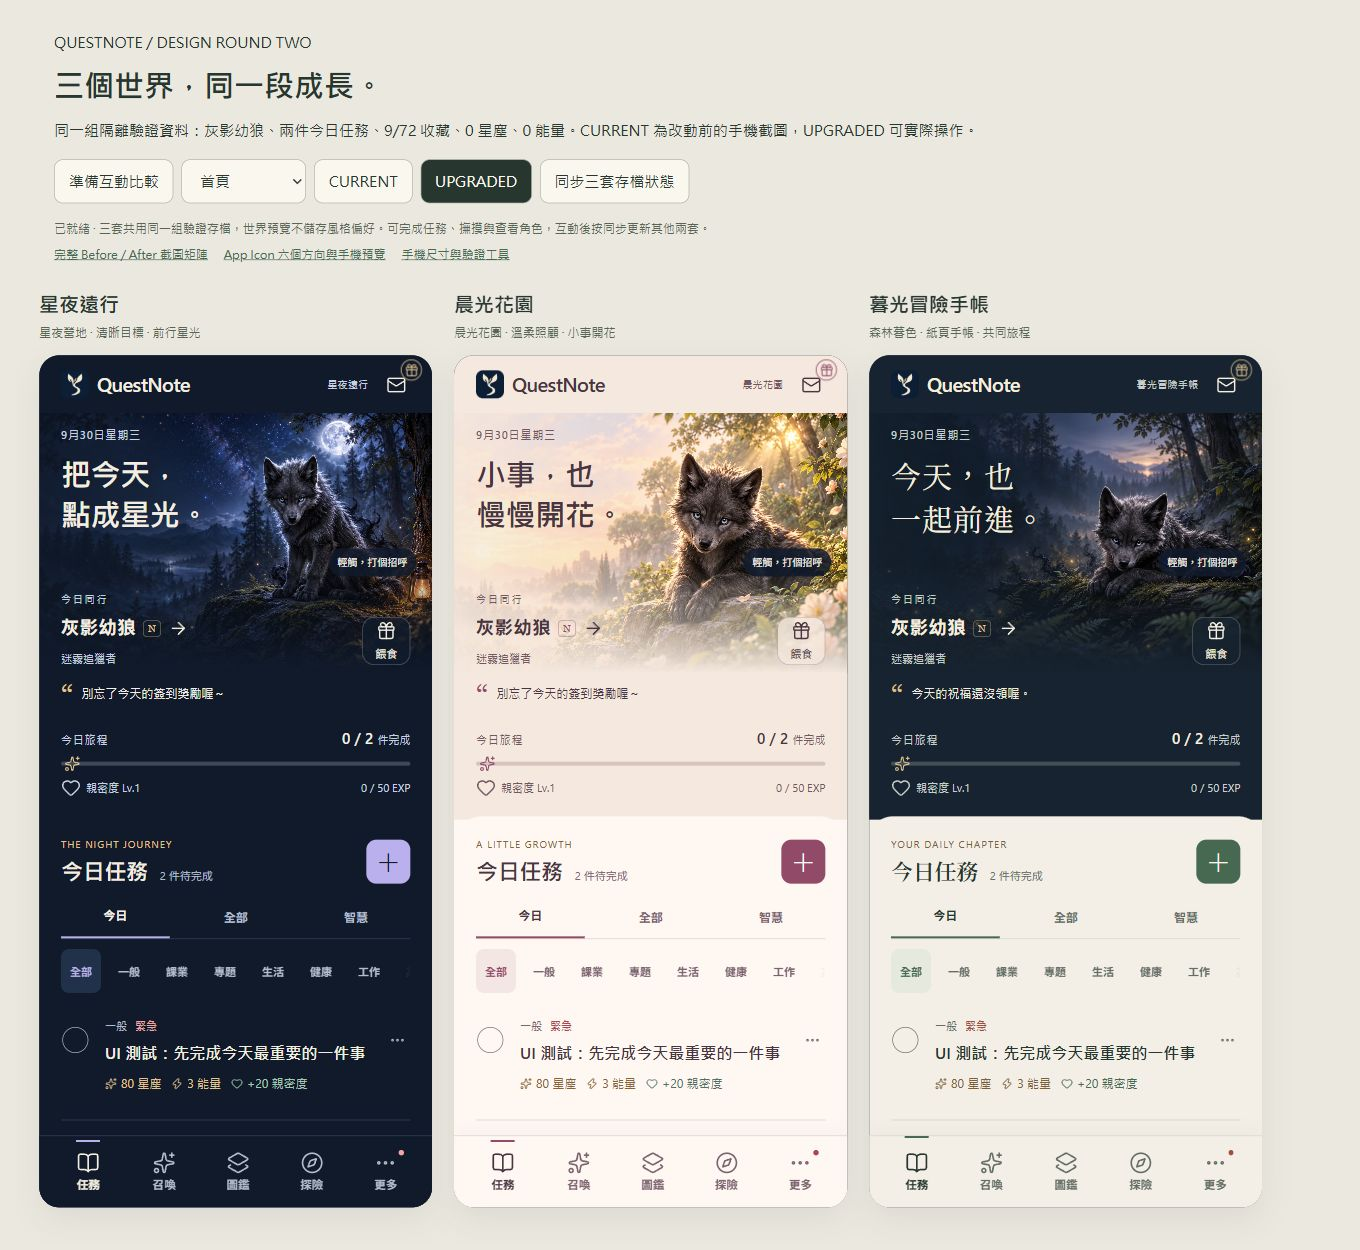
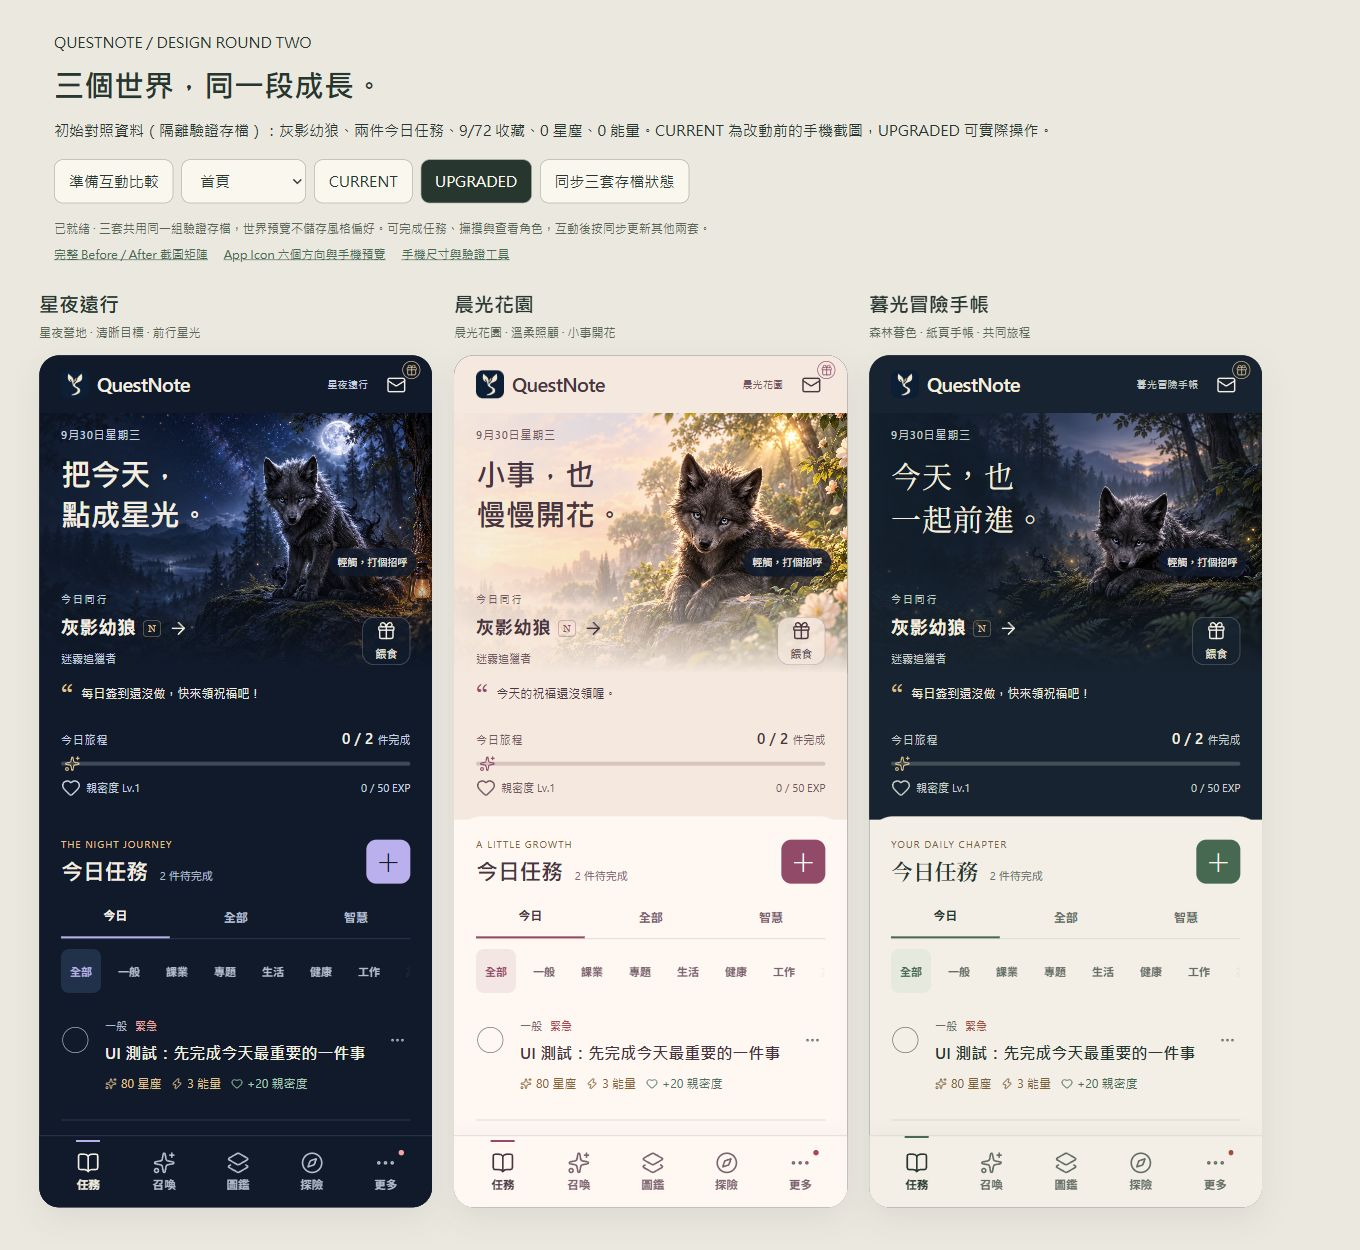
devtools: safely reuse known comparison fixtures across tabs

diff --git a/devtools/ui-polish-test.js b/devtools/ui-polish-test.js
@@ -2,6 +2,7 @@
 const frame = document.getElementById('preview');
 const output = document.getElementById('results');
 const sessionKey = 'questnote-ui-polish-test-session';
+const originSessionKey = 'questnote-ui-polish-synthetic-origin';
 const urgentTitle = 'UI 測試：先完成今天最重要的一件事';
 let session;
 let ui;
@@ -28,6 +29,13 @@ async function guard() {
   const existing = await indexedDB.databases();
   let saved;
   try { saved = JSON.parse(sessionStorage.getItem(sessionKey)); } catch { saved = null; }
+  // A second comparison tab may reuse only a fixture successfully seeded by
+  // this exact ephemeral server instance. Unknown databases still fail closed.
+  if (saved?.instance !== marker.instance && existing.length) {
+    let knownFixture;
+    try { knownFixture = JSON.parse(localStorage.getItem(originSessionKey)); } catch { knownFixture = null; }
+    if (knownFixture?.instance === marker.instance && knownFixture.seeded === true) saved = knownFixture;
+  }
   if (saved?.instance !== marker.instance && existing.length) throw new Error('Existing IndexedDB data found. Refusing fixture writes; start a fresh port.');
   session = saved?.instance === marker.instance ? saved : { instance: marker.instance, seeded: false, empty: {} };
   sessionStorage.setItem(sessionKey, JSON.stringify(session));
@@ -122,6 +130,7 @@ async function initialize() {
   }
   await theme('default');
   await navigate('tasks');
+  localStorage.setItem(originSessionKey, JSON.stringify(session));
   document.querySelectorAll('button, select').forEach((element) => { element.disabled = false; });
   log('READY · 今日緊急單行任務、多行及子任務、8 隻測試寵物與 UR 陪伴。可選 VP 分組驗收。');
 }

diff --git a/reports/theme-round-two/verification.md b/reports/theme-round-two/verification.md
@@ -61,4 +61,4 @@
 - `/devtools/theme-worlds/brand.html`：六個概念、final icon、小尺寸、淺／深背景與手機主畫面 mockup。
 - `/index.html`：完整 App；更多 → 美術風格 → 三選一，重開保留偏好。此本機 origin 的資料為隔離測試資料。
 
-重新啟動：在此 worktree 執行 `node devtools/ui-polish-server.mjs 0`，使用它印出的新 port。測試資料初始化後不要在沒有相同 session marker 的新分頁強行重建；安全工具會拒絕未知資料。
+重新啟動：在此 worktree 執行 `node devtools/ui-polish-server.mjs 0`，使用它印出的新 port。同一伺服器 instance 已成功建立的合成資料可供其他比較分頁重用；不重設錢包、任務或親密度。未知資料、不同 server instance 或已啟用的 SW 仍會被安全工具拒絕。
